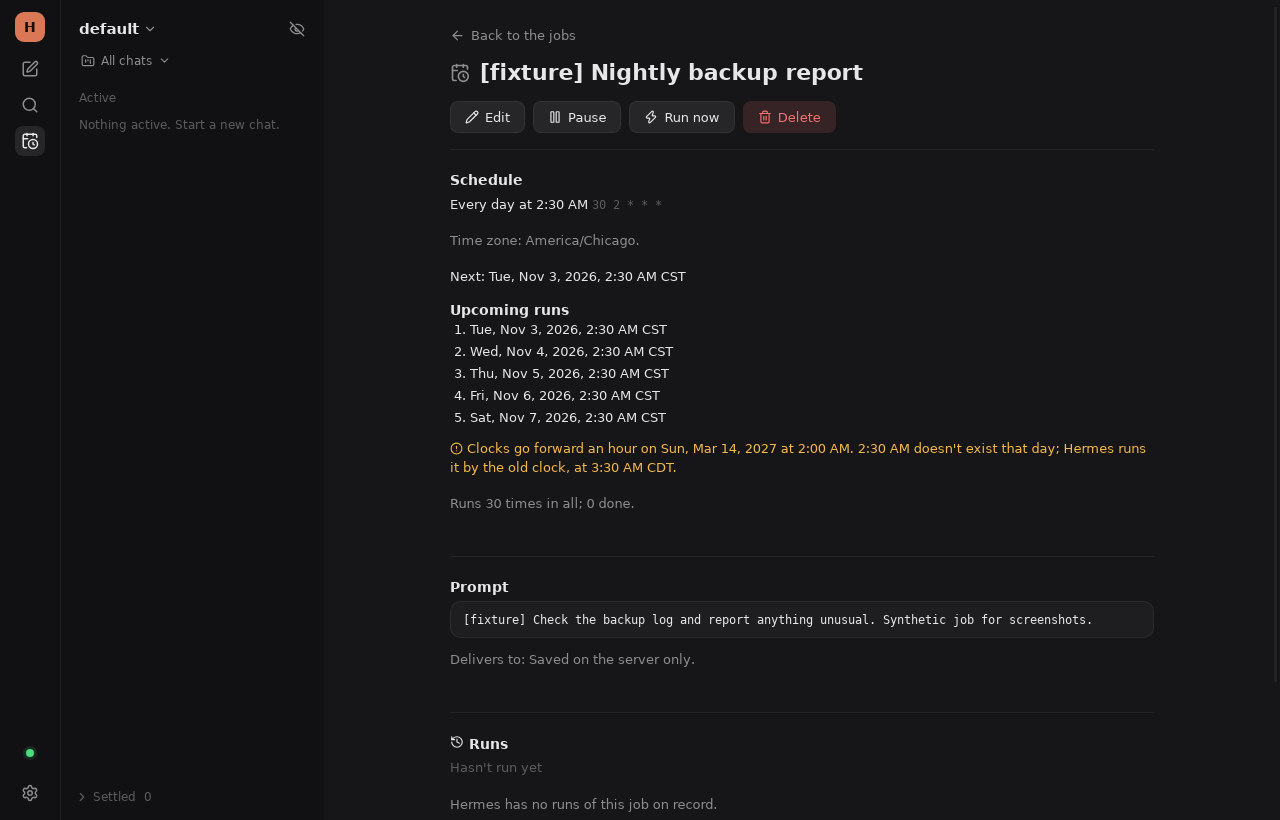
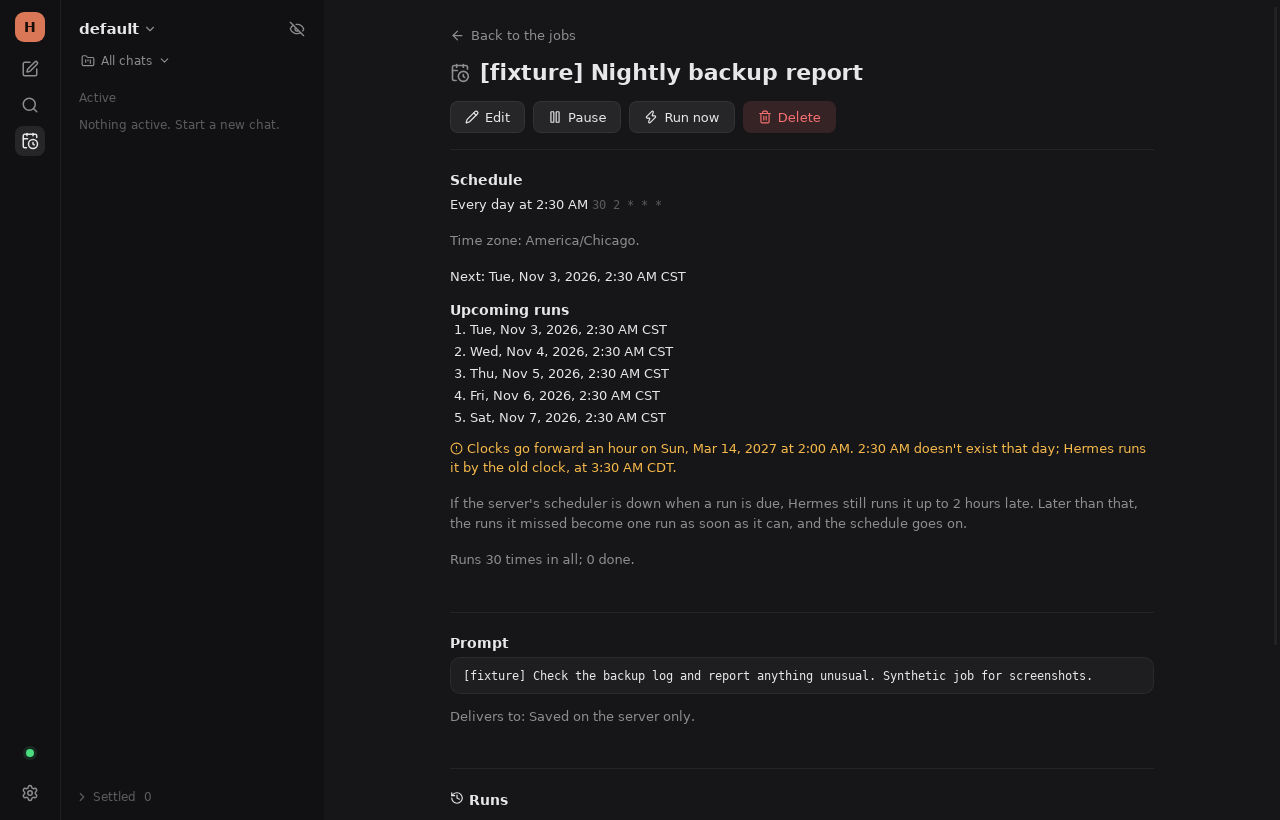
Say what Hermes does with missed runs, and page run history to its limit
Issue #73 asks for missed-run behavior and paginated history. Hermes's
/runs takes a limit of at most 100 and no offset, so history shows 20, then
the latest 100, and says older runs aren't listed. The job screen words the
scheduler's grace (half the period, 2 minutes to 2 hours), the one-run
catch-up, and cron.catch_up_missed, read with the time zone from the
profile's config.

Refs #73, #50

diff --git a/src/ui/ScheduledJobs.tsx b/src/ui/ScheduledJobs.tsx
@@ -4,7 +4,7 @@
 // back, has it.
 import { useEffect, useMemo, useRef, useState } from "react";
 import { ArrowLeft, CalendarClock, CircleAlert, History, Pause, Pencil, Play, Plus, RefreshCw, Trash2, Zap } from "lucide-react";
-import { CronConflict, CronError, type CronApi, type CronJob, type DeliveryTarget, type JobFields, type JobRun, type JobsZone, jobsZone, statusLabel } from "../hermes/cronJobs";
+import { CronConflict, CronError, RUNS_MAX, type CronApi, type CronJob, type DeliveryTarget, type JobFields, type JobRun, type JobsZone, jobsZone, missedRunNote, statusLabel } from "../hermes/cronJobs";
 import { type Schedule, ScheduleError, clockChangeNote, explainSchedule, formatInstant, isoIn, offsetAt, parseSchedule, upcomingRuns } from "../hermes/schedule";
 import { Spinner } from "./bits";
 
@@ -13,7 +13,7 @@ const HERE = Intl.DateTimeFormat().resolvedOptions().timeZone;
 /** A scheduler that hasn't checked the jobs for this long is likely not running (it checks about every minute). */
 const STALE_SCHEDULER_S = 300;
 
-type Loaded = { jobs: CronJob[]; zone: JobsZone; targets: DeliveryTarget[] };
+type Loaded = { jobs: CronJob[]; zone: JobsZone; targets: DeliveryTarget[]; catchUp: boolean };
 type View = { kind: "list" } | { kind: "job"; id: string } | { kind: "edit"; id?: string };
 
 /** An instant on the jobs' clock, and on this computer's when that reads differently. */
@@ -130,11 +130,11 @@ export function ScheduledJobs({ api, profile, connected, onClose }: { api: CronA
     try {
       const [jobs, setting, targets] = await Promise.all([
         api.list(profile),
-        api.timezone(profile).catch(() => undefined),
+        api.scheduling(profile).catch(() => undefined),
         api.targets(profile).catch(() => [] as DeliveryTarget[]),
       ]);
       if (!live.current) return;
-      setLoaded({ jobs, zone: jobsZone(setting, jobs), targets });
+      setLoaded({ jobs, zone: jobsZone(setting?.timezone, jobs), targets, catchUp: setting?.catchUp ?? true });
     } catch (e) {
       if (live.current) setError(e as Error);
     } finally {
@@ -330,14 +330,15 @@ function JobDetail({
   const offline = connected ? undefined : "Connect to Hermes to change this job.";
   const paused = !job.enabled || job.state === "paused";
 
-  const readRuns = () =>
-    void api.runs(profile, job).then(
+  const [runLimit, setRunLimit] = useState(20);
+  const readRuns = (limit = runLimit) =>
+    void api.runs(profile, job, limit).then(
       (r) => setRuns(r),
       (e) => setRuns(messageOf(e)),
     );
   useEffect(() => {
     if (connected) readRuns();
-  }, [connected, job.lastRunAt]);
+  }, [connected, job.lastRunAt, runLimit]);
 
   const act = async (what: NonNullable<typeof busy>, fn: () => Promise<void>) => {
     setBusy(what);
@@ -486,6 +487,14 @@ function JobDetail({
             <Upcoming schedule={job.schedule} zone={zone} first={Date.parse(job.nextRunAt!)} remaining={job.repeat.times === null ? null : job.repeat.times - job.repeat.completed} />
           </>
         )}
+        {job.schedule && (
+          <p className="muted small">
+            {missedRunNote(job.schedule, (() => {
+              const two = job.schedule.kind === "once" ? undefined : upcomingRuns(job.schedule, zone.zone, Date.now(), 2);
+              return two && two.length === 2 ? two[1] - two[0] : undefined;
+            })(), loaded.catchUp)}
+          </p>
+        )}
         {job.repeat.times !== null && (
           <p className="muted small">
             Runs {job.repeat.times} {job.repeat.times === 1 ? "time" : "times"} in all; {job.repeat.completed} done.
@@ -544,6 +553,15 @@ function JobDetail({
           </ul>
         ) : (
           <p className="muted small">Hermes has no runs of this job on record.</p>
+        )}
+        {Array.isArray(runs) && runs.length >= runLimit && (
+          runLimit < RUNS_MAX ? (
+            <button className="btn" onClick={() => setRunLimit(RUNS_MAX)}>
+              Show more runs
+            </button>
+          ) : (
+            <p className="muted small">Hermes lists a job's latest {RUNS_MAX} runs; older ones aren't shown.</p>
+          )
         )}
       </section>
     </>

diff --git a/src/hermes/cronJobs.ts b/src/hermes/cronJobs.ts
@@ -108,6 +108,24 @@ export class CronConflict extends Error {
   }
 }
 
+/** The most runs Hermes lists for a job (`_list_cron_job_runs_sync`): it takes a limit but no offset. */
+export const RUNS_MAX = 100;
+
+/**
+ * What Hermes does with a run the scheduler missed, say while the server was down (`cron/jobs.py`
+ * `_compute_grace_seconds`, `_fast_forward_missed_recurring`, `ONESHOT_GRACE_SECONDS`). A recurring run up to half its
+ * period late (2 minutes to 2 hours) still runs; later than that, missed runs become one run as soon as Hermes can,
+ * or none when `cron.catch_up_missed` is off. A one-shot more than 2 minutes late doesn't run.
+ */
+export function missedRunNote(s: Schedule, periodMs: number | undefined, catchUp: boolean): string {
+  if (s.kind === "once") return "If the server's scheduler isn't running at that time, and only starts more than 2 minutes later, Hermes doesn't run it.";
+  const grace = Math.max(120, Math.min(Math.floor((periodMs ?? 0) / 2000), 7200));
+  const said = grace >= 3600 ? `${+(grace / 3600).toFixed(1)} ${grace === 3600 ? "hour" : "hours"}` : `${Math.round(grace / 60)} minutes`;
+  return `If the server's scheduler is down when a run is due, Hermes still runs it up to ${said} late. ${
+    catchUp ? "Later than that, the runs it missed become one run as soon as it can, and the schedule goes on." : "Later than that, Hermes skips it (cron.catch_up_missed is off for this profile)."
+  }`;
+}
+
 export type RestFn = (method: RestMethod, pathAndQuery: string, body?: unknown) => Promise<unknown>;
 
 const isObj = (v: unknown): v is Record<string, unknown> => typeof v === "object" && v !== null && !Array.isArray(v);
@@ -273,10 +291,19 @@ export class CronApi {
     return rows.map(toJob).filter((j): j is CronJob => !!j && (!j.profile || j.profile === profile));
   }
 
-  /** The profile's `timezone` setting (`config.yaml`), or "" when it has none and Hermes uses the server's zone. */
-  async timezone(profile: string): Promise<string> {
+  /**
+   * The profile's scheduling settings (`config.yaml`): `timezone`, "" when it has none and Hermes uses the server's
+   * zone, and `catchUp`, false when `cron.catch_up_missed` is off and Hermes skips runs missed by more than their grace.
+   */
+  async scheduling(profile: string): Promise<{ timezone: string; catchUp: boolean }> {
     const config = await this.call("GET", `api/config?${q(profile)}`);
-    return isObj(config) && typeof config.timezone === "string" ? config.timezone.trim() : "";
+    const cron = isObj(config) && isObj(config.cron) ? config.cron : {};
+    return { timezone: isObj(config) && typeof config.timezone === "string" ? config.timezone.trim() : "", catchUp: cron.catch_up_missed !== false };
+  }
+
+  /** The profile's `timezone` setting, or "" when it has none. */
+  async timezone(profile: string): Promise<string> {
+    return (await this.scheduling(profile)).timezone;
   }
 
   /** Where the profile can deliver results. `ready` is false for a platform with no home channel set. */
@@ -286,7 +313,10 @@ export class CronApi {
     return rows.filter(isObj).filter((t) => typeof t.id === "string" && t.id).map((t) => ({ id: t.id as string, name: text(t.name) || (t.id as string), ready: t.home_target_set !== false }));
   }
 
-  /** The job's latest runs, newest first. Reads only, and only this profile's: Hermes would read another's copy. */
+  /**
+   * The job's latest runs, newest first, up to `limit`: Hermes lists at most 100 (`RUNS_MAX`) and has no paging past
+   * them. Reads only, and only this profile's: Hermes would read another's copy.
+   */
   async runs(profile: string, job: CronJob, limit = 20): Promise<JobRun[]> {
     await this.owned(profile, job.id);
     const res = await this.call("GET", `${jobPath(job.id)}/runs?${q(profile)}&limit=${limit}`);

diff --git a/src/hermes/cronJobs.test.ts b/src/hermes/cronJobs.test.ts
@@ -4,7 +4,7 @@
 import { afterEach, describe, expect, it } from "vitest";
 import { FakeHermes } from "./fakeHermes";
 import { connect, type Hermes } from "./transport";
-import { CronConflict, CronError, cronError, statusLabel, type JobFields } from "./cronJobs";
+import { CronConflict, CronError, cronError, missedRunNote, statusLabel, type JobFields } from "./cronJobs";
 
 const running: Hermes[] = [];
 afterEach(async () => {
@@ -57,9 +57,18 @@ describe("listing", () => {
     await expect(cron.list("default")).rejects.toMatchObject({ kind: "unsupported", message: "This Hermes server has no scheduled jobs. Updating Hermes adds them." });
   });
 
+  it("words what Hermes does with a missed run", () => {
+    const daily = { kind: "cron" as const, expr: "0 9 * * *", display: "" };
+    expect(missedRunNote(daily, 86_400_000, true)).toMatch(/up to 2 hours late\. Later than that, the runs it missed become one run/);
+    expect(missedRunNote({ kind: "interval", minutes: 10, display: "" }, 600_000, false)).toMatch(/up to 5 minutes late\. Later than that, Hermes skips it/);
+    expect(missedRunNote({ kind: "interval", minutes: 1, display: "" }, 60_000, true)).toMatch(/up to 2 minutes late/);
+    expect(missedRunNote({ kind: "once", runAt: 0, display: "" }, undefined, true)).toMatch(/more than 2 minutes later, Hermes doesn't run it/);
+  });
+
   it("reads the profile's time zone and delivery targets", async () => {
     const { s, cron } = await setUp();
     expect(await cron.timezone("default")).toBe("America/Chicago");
+    expect(await cron.scheduling("default")).toEqual({ timezone: "America/Chicago", catchUp: true });
     s.cron.timezone = "";
     expect(await cron.timezone("default")).toBe("");
     expect(await cron.targets("default")).toEqual([

diff --git a/src/ui/scheduledJobs.test.tsx b/src/ui/scheduledJobs.test.tsx
@@ -233,6 +233,19 @@ describe("the Scheduled jobs screen", () => {
     expect(document.querySelectorAll(".job-preview li")).toHaveLength(1);
   });
 
+  it("pages run history up to Hermes's limit, and says what a missed run does", async () => {
+    const s = server();
+    const id = s.cron.jobs.default[0].id;
+    s.cron.runs[id] = Array.from({ length: 30 }, (_, i) => ({ id: `cron_output:${id}:${i}`, title: `COMPLETED · run ${i}`, source: "cron_output", started_at: 1_793_600_000 - i * 60 }));
+    const { user } = await launch(s);
+    await user.click(screen.getByText("[fixture] Weekday brief"));
+    expect(screen.getByText(/Hermes still runs it up to 2 hours late/)).toBeTruthy();
+    // The fake answers with all 30 whatever the limit; the app asks for 20 first, then Hermes's 100.
+    await waitFor(() => expect(s.restRequests.some((r) => r.path.endsWith("/runs") && r.query.get("limit") === "20")).toBe(true));
+    await user.click(await screen.findByRole("button", { name: "Show more runs" }));
+    await waitFor(() => expect(s.restRequests.some((r) => r.path.endsWith("/runs") && r.query.get("limit") === "100")).toBe(true));
+  });
+
   it("shows the profile's own jobs after switching profile", async () => {
     const s = server();
     s.cron.add("work", { name: "[fixture] Work job", prompt: "Fixture only.", schedule: "0 8 * * *" });

diff --git a/docs/adr/0011-scheduled-jobs-are-hermess-cron-jobs-confirmed-by-read-back.md b/docs/adr/0011-scheduled-jobs-are-hermess-cron-jobs-confirmed-by-read-back.md
@@ -16,7 +16,8 @@ Scheduled jobs are the profile's own Hermes cron jobs. Hermes stores them in the
 - **Edits.** The editor sends only the fields the owner changed (and the repeat limit with a new schedule, since Hermes re-derives it when the schedule's kind changes), so fields it doesn't show (model, skills, script, folder, toolsets, chained jobs) stay as Hermes has them. Before sending, it compares the job's shown fields with the copy the owner opened; if another client changed one, nothing is sent until the owner saves again over it or reloads. A change landing between that check and the write can still be overwritten: Hermes offers nothing to close that gap. When the answer to an edit is lost, a schedule counts as saved only if the job now has the schedule asked for, by Hermes's own label and its expression, interval or instant (a time without an offset read in the profile's zone).
 - **Time zone.** Hermes schedules a profile's jobs in its `timezone` setting (read from `GET /api/config`), else in the server's own zone, which it doesn't name; the app then shows the offset Hermes stamped on the profile's jobs and says that daylight-saving changes can't be previewed. A cron schedule follows the zone's wall clock. The editor's explanation and upcoming runs mirror `parse_schedule` and `compute_next_run`, checked against Hermes's own code with the clock pinned (`tools/cron-golden.py`): a wall time skipped when clocks go forward runs by the old clock (02:30 runs at 03:30 the new time) and later skipped times don't run; a time that happens twice runs only the first time; an interval counts elapsed time. Hermes's own `next_run_at` is always the next run shown. The scheduler checks about once a minute, so a run can start up to a minute after its time.
 - **Run now** calls `POST /api/cron/jobs/{id}/trigger`, which Hermes answers only once the run has finished, so the app says the run finished, with Hermes's recorded status, only when `last_run_at` moved, and only shows the job as the list has it afterwards: a job gone from the list (a one-shot Hermes removed) leaves it, and a list it couldn't read is said to be unconfirmed. It is a real run, with the job's real delivery, and Hermes also resumes a paused job; the app asks first and says so.
-- **Runs.** `GET /api/cron/jobs/{id}/runs` lists agent sessions and script output. It answers 503 until the profile's gateway has started its session store; the app says so.
+- **Runs.** `GET /api/cron/jobs/{id}/runs` lists agent sessions and script output, newest first. It takes a limit (at most 100) and no offset, so the app shows 20, then the latest 100, and says older runs aren't listed. It answers 503 until the profile's gateway has started its session store; the app says so. Agent runs aren't opened as chats: Hermes's `cron` sessions are left out of the chat list.
+- **Missed runs.** The job screen says what Hermes does with a run its scheduler missed (`_compute_grace_seconds`, `_fast_forward_missed_recurring`): a recurring run up to half its period late (2 minutes to 2 hours) still runs; later, the missed runs become one run, or none when the profile's `cron.catch_up_missed` (read from `GET /api/config`) is off; a one-shot more than 2 minutes late doesn't run.
 - **Scheduler health.** Each job carries `scheduler_heartbeat_age_s`. The app warns when it is missing (no scheduler has run for the profile) or over five minutes old, since jobs run only while the profile's gateway runs.
 - **Relay.** The Rust relay takes `POST api/cron/jobs`, `PUT api/cron/jobs/{id}` and `POST api/cron/jobs/{id}/{pause,resume,trigger}`, with the id one plain path segment, and no other new `POST` or `PUT`.
 - The app offers only Hermes's delivery targets (`GET /api/cron/delivery-targets`), marking a platform with no home channel; a job's current target it doesn't list is kept. It creates prompt jobs only; script jobs and other options come from other Hermes clients and are shown as kept.

diff --git a/docs/screenshots/scheduled-jobs/README.md b/docs/screenshots/scheduled-jobs/README.md
@@ -4,11 +4,14 @@ Captured on 2026-11-02 from the running Tauri debug application (WebKitGTK) on a
 window. The app was signed in to a real Hermes dashboard (`bf0203a`) serving a throwaway `HERMES_HOME` under `/tmp`, with a
 throwaway gateway running its scheduler, and with no provider or platform credentials. Every job is a synthetic `[fixture]`
 job made for these captures; none of the owner's jobs is shown. Times are the fixture profile's `America/Chicago`. No
-visual elements were composited or retouched.
+visual elements were composited or retouched. `2-job-detail.png` is from the final build; the others are from the build of
+`ec4e93d`, which differs on these screens only by the missed-run sentence in a job's Schedule section and the run
+history's Show more.
 
 - `1-job-list.png`: the list, with each job's schedule in words, Hermes's schedule, next run, last result and delivery; a
   paused job.
-- `2-job-detail.png`: a 2:30 AM job: time zone, Hermes's next run, upcoming runs, and what happens on the spring-forward day.
+- `2-job-detail.png`: a 2:30 AM job: time zone, Hermes's next run, upcoming runs, what happens on the spring-forward day,
+  and what Hermes does with a missed run.
 - `3-editor-validation.png`: an invalid cron hour caught before anything is sent.
 - `4-editor-preview.png`: a new schedule explained and previewed (weekends skipped).
 - `5-edit-conflict.png`: the job renamed on the server by another client while the editor was open; nothing was sent.
